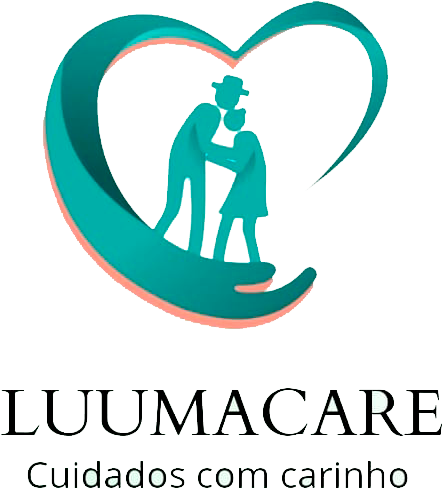
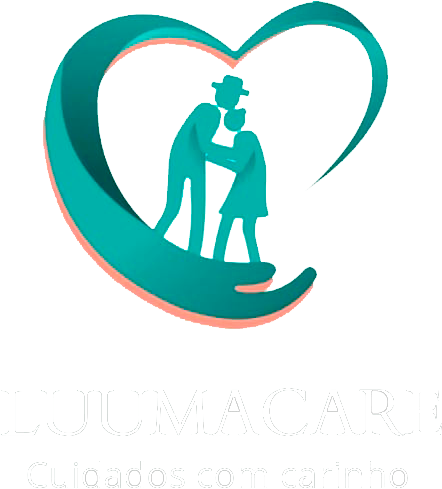
Feature: Adição de componentes da página de listagem

diff --git a/cliente.html b/cliente.html
@@ -6,15 +6,15 @@
     <meta name="viewport" content="width=device-width, initial-scale=1.0">
     <title>Luumacare</title>
     <link rel="stylesheet" href="css/bootstrap.min.css">
-    <link rel="stylesheet" href="/css/style.css">
+    <link rel="stylesheet" href="css/style.css">
 </head>
-<body>
+<body class="back-body">
     
     <!-- Inicio da barra de navegação (logo) -->
-    <nav class="navbar navbar-expand-lg bg-body-tertiary">
-        <div class="container-fluid">
-          <a id="logoLuca" class="navbar-brand" href="index.html"><img src="imgs/log.png" alt="Logo Luumacare"></a>
-          <button class="navbar-toggler" type="button" data-bs-toggle="collapse" data-bs-target="#navbarSupportedContent" aria-controls="navbarSupportedContent" aria-expanded="false" aria-label="Toggle navigation">
+    <nav class="navbar navbar-expand-lg bg-body-tertiary" style="background-color: #034159 !important;">
+        <div style="background-color: #034159;" class="container-fluid">
+          <a id="logoLuca" class="navbar-brand" href="index.html"><img style="width: 100px; height: 100px;" src="imgs/log.png" alt="Logo Luumacare"></a>
+          <button style="background-color: #f2f2f2;" class="navbar-toggler" type="button" data-bs-toggle="collapse" data-bs-target="#navbarSupportedContent" aria-controls="navbarSupportedContent" aria-expanded="false" aria-label="Toggle navigation">
             <span class="navbar-toggler-icon"></span>
           </button>
           <div class="collapse navbar-collapse" id="navbarSupportedContent">
@@ -34,8 +34,86 @@
         </div>
       </nav>
 
-    <!-- Fim da barra de navegação -->
+
+      <div class="d-flex justify-content-center align-items-center" style="height: 100vh;">
+        <main class="container">
+          <div class="row">
+            <!-- Coluna para o texto "Funcionarios" -->
+            <div class="col text-start">
+              <!-- Inicio do modal com botão -->
+
+
+              <!-- Button trigger modal -->
+                <button type="button" style="background-color: #f2f2f2; font-weight: bolder;" class="btn text-start col modal-title" data-bs-toggle="modal" data-bs-target="#exampleModal">
+                  Funcionarios
+                </button>
+
+                <!-- Modal Funcionarios-->
+                <div class="modal fade" id="exampleModal" tabindex="-1" aria-labelledby="exampleModalLabel" aria-hidden="true">
+                  <div class="modal-dialog">
+                    <div class="modal-content">
+                      <div class="modal-header">
+                        <h1 class="modal-title fs-5" id="exampleModalLabel">Funcionarios Luumacare</h1>
+                        <button type="button" class="btn-close" data-bs-dismiss="modal" aria-label="Close"></button>
+                      </div>
+                      <div class="modal-body">
+
+                      </div>
+                      <div class="modal-footer">
+                        <button type="button" class="btn btn-secondary" data-bs-dismiss="modal">Fechar</button>
+                        <button type="button" class="btn btn-primary">Salvar mudanças</button>
+                      </div>
+                    </div>
+                  </div>
+                </div>
+              <!-- Fim do modal -->
+
+
+            </div>
+    
+            <!-- Coluna para o texto "Solicitações de Clientes" -->
+            <div class="col text-center">
+              <!-- Inicio modal de solicitações de clientes -->
+              <button type="button" style="background-color: #f2f2f2; font-weight: bolder;" class="btn text-start col modal-title" data-bs-toggle="modal" data-bs-target="#exampleModal">
+                Solicitações de Clientes
+              </button>
+
+              <!-- Modal Funcionarios-->
+              <div class="modal fade" id="exampleModal" tabindex="-1" aria-labelledby="exampleModalLabel" aria-hidden="true">
+                <div class="modal-dialog">
+                  <div class="modal-content">
+                    <div class="modal-header">
+                      <h1 class="modal-title fs-5" id="exampleModalLabel">Clientes</h1>
+                      <button type="button" class="btn-close" data-bs-dismiss="modal" aria-label="Close"></button>
+                    </div>
+                    <div class="modal-body">
+
+                    </div>
+                    <div class="modal-footer">
+                      <button type="button" class="btn btn-secondary" data-bs-dismiss="modal">Fechar</button>
+                      <button type="button" class="btn btn-primary">Salvar mudanças</button>
+                    </div>
+                  </div>
+                </div>
+              <!-- Fim do modal  -->
+            </div>
+    
+            <!-- Coluna para o texto "Solicitações de Funcionarios" -->
+            <div class="col text-end">
+              <h2 id="solici-func" style="color: white; cursor: pointer;">Solicitações de Funcionarios</h2>
+            </div>
+          </div>
+        </main>
+      </div>
+      
+      <!-- Fim da barra de navegação -->
 
     <script src="js/bootstrap.min.js"></script>
+    <script src="index.js"></script>
+    <script src="js/front.js"></script>
+
+    <script src="https://cdn.jsdelivr.net/npm/@popperjs/core@2.11.8/dist/umd/popper.min.js" integrity="sha384-I7E8VVD/ismYTF4hNIPjVp/Zjvgyol6VFvRkX/vR+Vc4jQkC+hVqc2pM8ODewa9r" crossorigin="anonymous"></script>
+<script src="https://cdn.jsdelivr.net/npm/bootstrap@5.3.1/dist/js/bootstrap.min.js" integrity="sha384-Rx+T1VzGupg4BHQYs2gCW9It+akI2MM/mndMCy36UVfodzcJcF0GGLxZIzObiEfa" crossorigin="anonymous"></script>
+
 </body>
 </html>

diff --git a/js/front.js b/js/front.js
@@ -1,0 +1,16 @@
+document.getElementById("func").onclick = ()=>{
+}
+
+// Obtém a referência para o elemento com o ID 'myModal' (provavelmente um modal)
+const myModal = document.getElementById('myModal');
+
+// Obtém a referência para o elemento com o ID 'myInput' (provavelmente um campo de input)
+const myInput = document.getElementById('myInput');
+
+// Adiciona um ouvinte de evento para o evento 'shown.bs.modal' no modal
+myModal.addEventListener('shown.bs.modal', () => {
+  // Quando o modal é mostrado (exibido na tela), o seguinte código é executado:
+
+  // Define o foco para o elemento 'myInput'
+  myInput.focus();
+});

diff --git a/index.js b/index.js
@@ -217,3 +217,11 @@ function verificaToken(req,res,next){
 
 //vamos definir a porta de comunicação do servidor
 app.listen(process.env.PORT, () => console.log(`Server online at: ${process.env.HOST}:${process.env.PORT}`));
+
+
+
+
+// Parte para criar o Front End da página utilizando eventos (cliques e etcetera).
+
+
+

diff --git a/css/style.css b/css/style.css
@@ -1,0 +1,9 @@
+.back-body{
+ background-image: linear-gradient(180deg, rgba(5, 19, 27, 0.63), rgba(5, 19, 27, 0.63)), url(../imgs/saude-mental-para-idosos.png);
+ background-size: cover;
+ width: 100%;
+}
+
+h2{
+    font-size: 15pt;
+}
